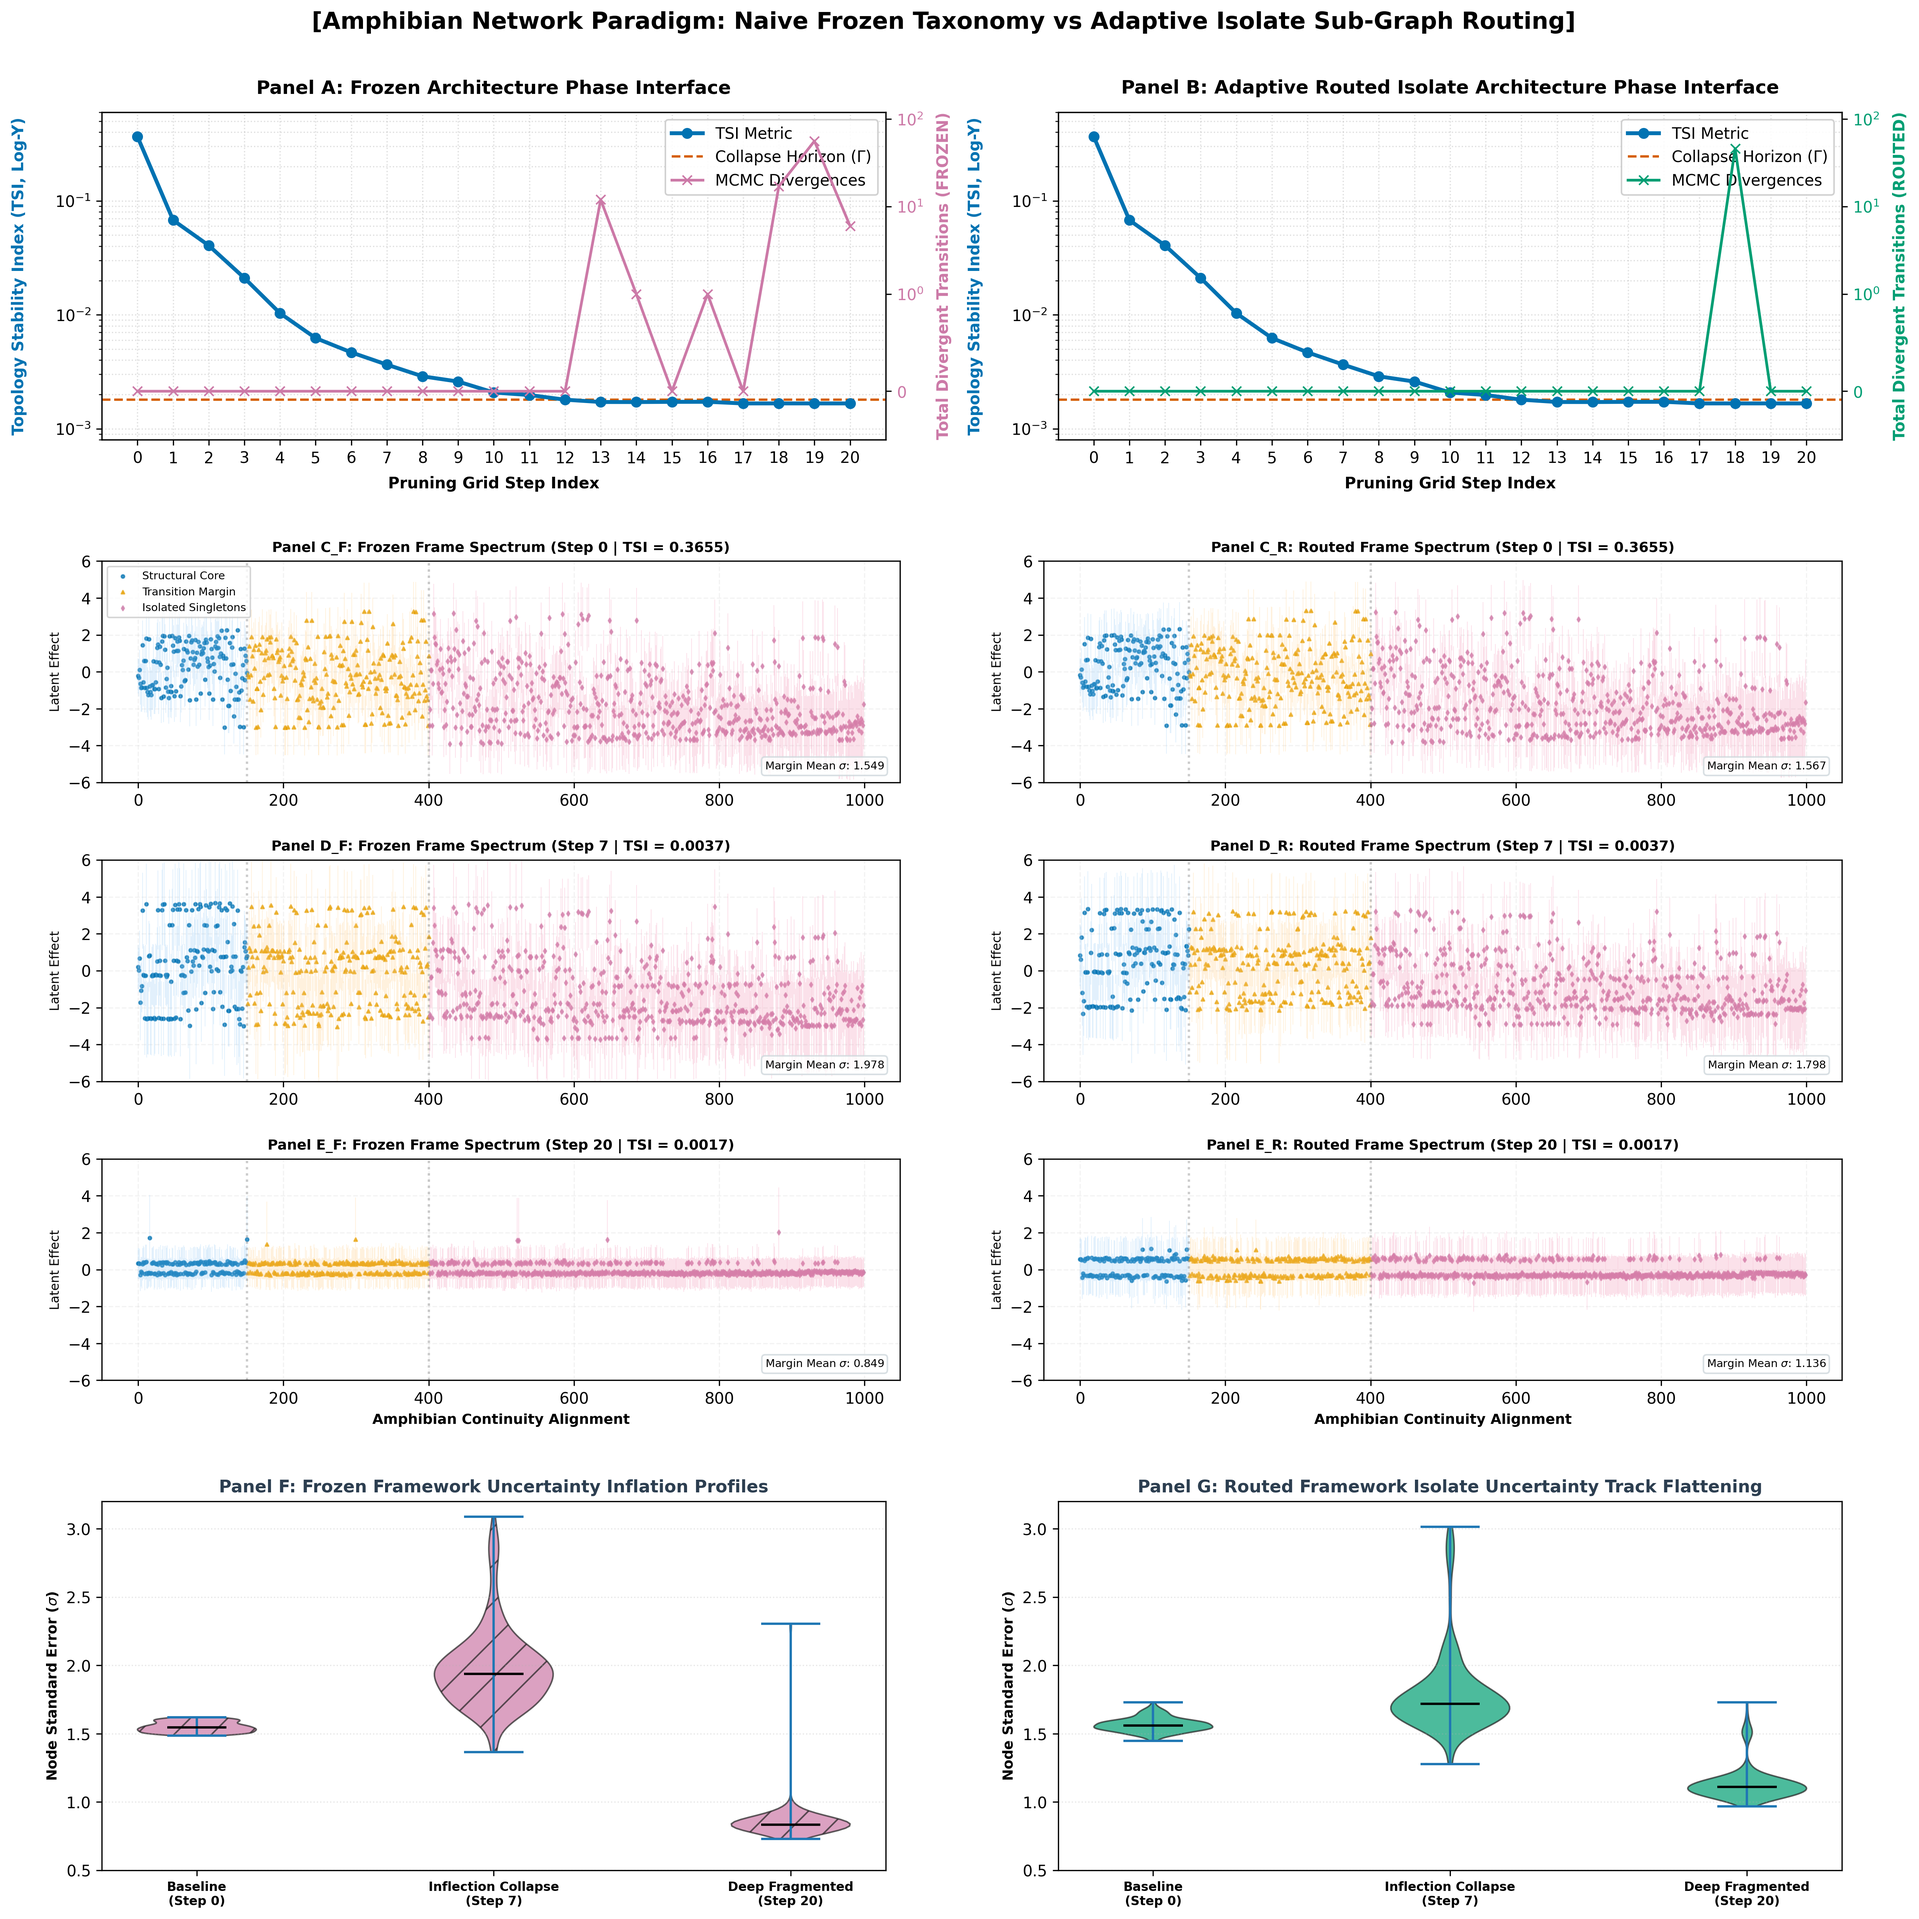
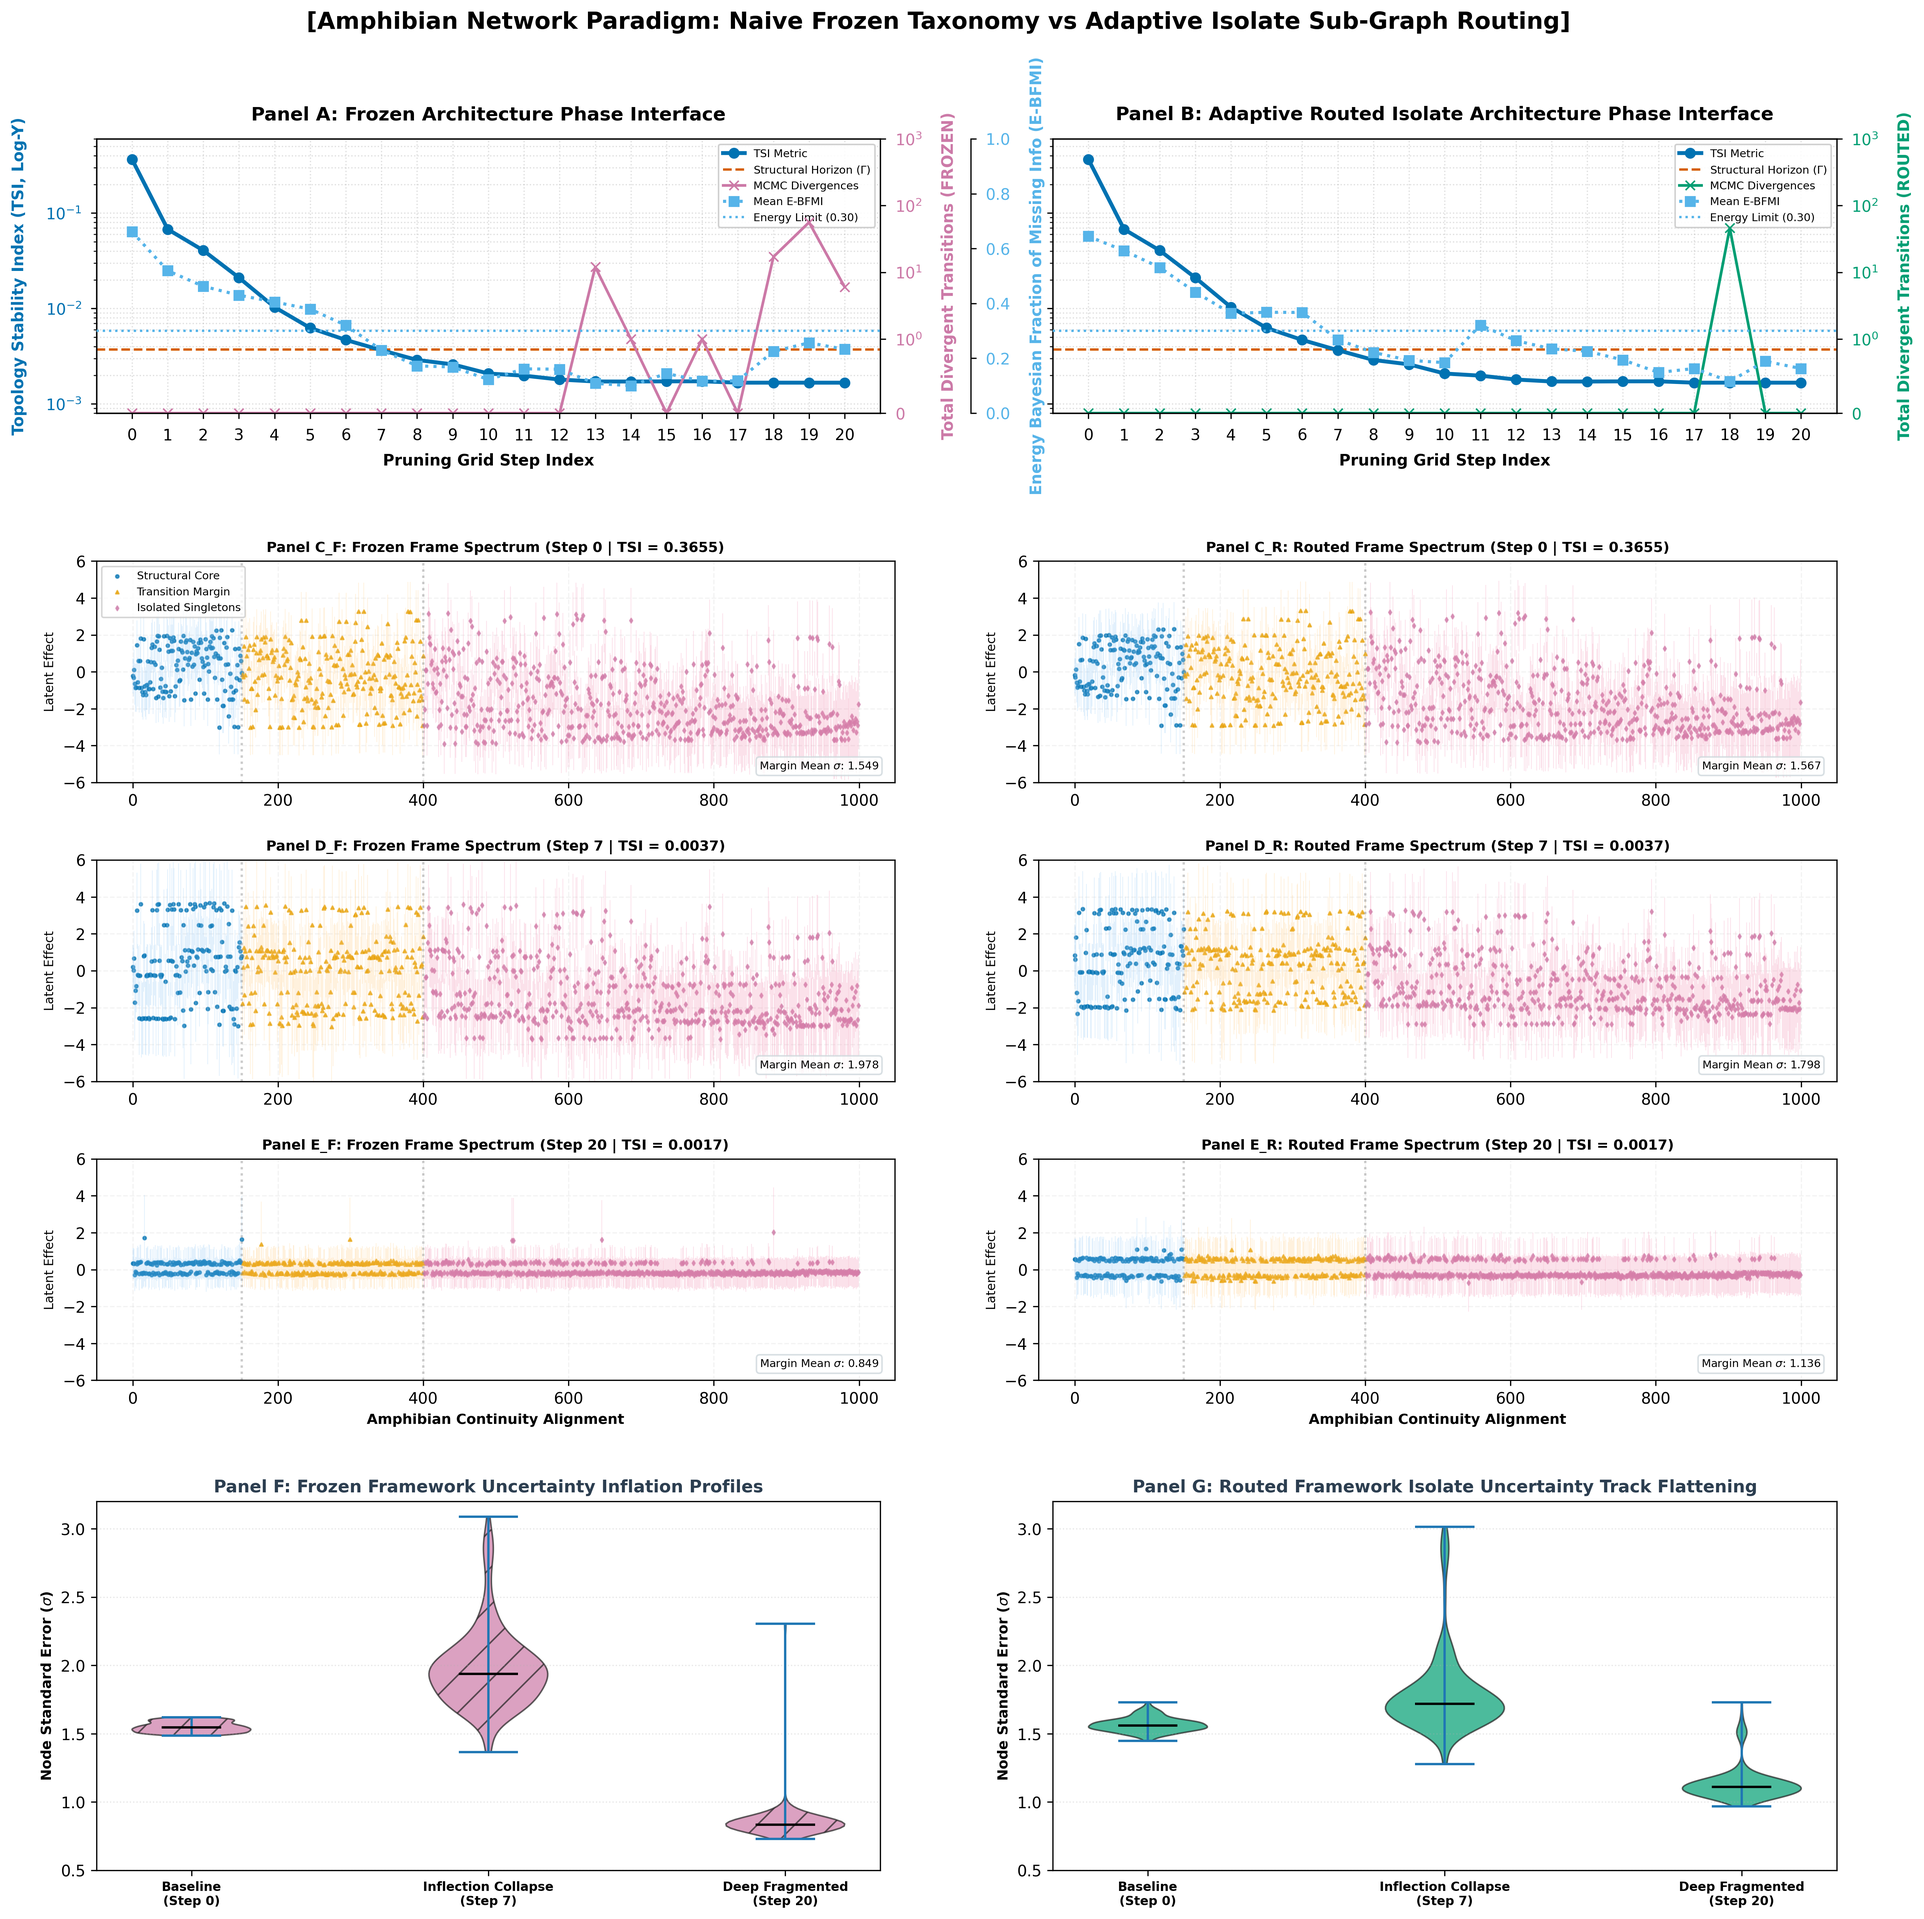
updated figure plot

diff --git a/amphibian_topology/utils/plot_synthesis.py b/amphibian_topology/utils/plot_synthesis.py
@@ -86,30 +86,68 @@ def render_publication_figure1():
     ax_macro_f = fig.add_subplot(gs_row1[0, 0])
     ax_macro_r = fig.add_subplot(gs_row1[0, 1])
 
-    def plot_macro_tier(ax, data, div_color, title_text, label_suffix):
-        ax.set_ylabel("Topology Stability Index (TSI, Log-Y)", color=c_tsi, fontweight="bold", labelpad=18)
+    c_bfmi = '#56B4E9'
+
+    def plot_macro_tier(ax, data, div_color, title_text, label_suffix, is_left_panel=True):
+        # 1. Left Primary Axis: Topology Stability Index (TSI)
+        if is_left_panel:
+            ax.set_ylabel("Topology Stability Index (TSI, Log-Y)", color=c_tsi, fontweight="bold", labelpad=12)
+            ax.tick_params(axis='y', labelcolor=c_tsi, pad=6)
+        else:
+            ax.set_ylabel("", color=c_tsi)
+            ax.tick_params(axis='y', labelleft=False, labelcolor='none')
+
         l_tsi, = ax.plot(data["Step"], data["Topology_Stability_Index"], marker='o', color=c_tsi, linewidth=2.5, label="TSI Metric", zorder=5)
         ax.set_yscale('log')
         ax.set_ylim(0.0008, 0.60)
         ax.grid(True, linestyle=":", alpha=0.4, which="both")
-        l_horiz = ax.axhline(y=0.0018, color=c_horizon, linestyle='--', linewidth=1.5, label="Collapse Horizon (Γ)", zorder=4)
 
+        # align structural horizon
+        l_horiz = ax.axhline(y=0.0037, color=c_horizon, linestyle='--', linewidth=1.5, label="Structural Horizon ($\Gamma$)", zorder=4)
+
+        # 2. Right Axis 1: Total Divergent Transitions
         ax_div = ax.twinx()
-        ax_div.set_ylabel(f"Total Divergent Transitions ({label_suffix})", color=div_color, fontweight="bold", labelpad=8)
+        ax_div.set_ylabel(f"Total Divergent Transitions ({label_suffix})", color=div_color, fontweight="bold", labelpad=12)
         l_div, = ax_div.plot(data["Step"], data["Divergences"], marker='x', linestyle='-', color=div_color, linewidth=1.75, label="MCMC Divergences", zorder=6)
         ax_div.set_yscale('symlog', linthresh=1.0)
-        ax_div.set_ylim(-0.5, max(120, data["Divergences"].max() * 1.15))
-        ax_div.tick_params(axis='y', labelcolor=div_color)
+        ax_div.set_ylim(0, 1000.0)
+        ax_div.spines['right'].set_bounds(0, 1000.0)
+        ax_div.tick_params(axis='y', labelcolor=div_color, pad=6)
 
+        # 3. Right Axis 2: Mean E-BFMI
+        ax_bfmi = ax.twinx()
+        l_bfmi, = ax_bfmi.plot(data["Step"], data["Mean_E_BFMI"], marker='s', linestyle=':', color=c_bfmi, linewidth=2.0, label="Mean E-BFMI", zorder=7)
+        ax_bfmi.set_ylim(0.0, 1.0)
+
+        # An E-BFMI below 0.30 is the standard indicator of poor sample mixing
+        l_energy_floor = ax_bfmi.axhline(y=0.30, color=c_bfmi, linestyle=':', linewidth=1.5, label="Energy Limit (0.30)", zorder=3)
+
+        if is_left_panel:
+            ax_bfmi.spines['right'].set_position(('outward', 58))
+            ax_bfmi.set_ylabel("Energy Bayesian Fraction of Missing Info (E-BFMI)", color=c_bfmi, fontweight="bold", labelpad=12)
+            ax_bfmi.tick_params(axis='y', labelcolor=c_bfmi, pad=6)
+        else:
+            ax_bfmi.set_ylabel("", color=c_bfmi)
+            ax_bfmi.spines['right'].set_visible(False)
+            ax_bfmi.tick_params(axis='y', which='both', left=False, right=False, labelright=False)
+
+        # Formatting constraints
+        ax.tick_params(axis='x', which='major', pad=6)
         ax.set_xticks(data["Step"])
         ax.set_xlabel("Pruning Grid Step Index", fontweight="bold", labelpad=6)
         ax.set_title(title_text, fontweight="bold", fontsize=12, pad=12)
 
-        handles = [l_tsi, l_horiz, l_div]
-        ax.legend(handles, [h.get_label() for h in handles], loc="upper right", frameon=True, framealpha=0.9)
+        # Update the legend to include the new independent energy floor line
+        handles = [l_tsi, l_horiz, l_div, l_bfmi, l_energy_floor]
+        ax.legend(handles, [h.get_label() for h in handles], loc="upper right", frameon=True, framealpha=0.9, fontsize=7)
 
-    plot_macro_tier(ax_macro_f, df_macro_f, c_f_div, "Panel A: Frozen Architecture Phase Interface", "FROZEN")
-    plot_macro_tier(ax_macro_r, df_macro_r, c_r_div, "Panel B: Adaptive Routed Isolate Architecture Phase Interface", "ROUTED")
+        ax.set_box_aspect(0.35)
+        ax_div.set_box_aspect(0.35)
+        ax_bfmi.set_box_aspect(0.35)
+
+    # Call functions explicitly passing structural layout indicators
+    plot_macro_tier(ax_macro_f, df_macro_f, c_f_div, "Panel A: Frozen Architecture Phase Interface", "FROZEN", is_left_panel=True)
+    plot_macro_tier(ax_macro_r, df_macro_r, c_r_div, "Panel B: Adaptive Routed Isolate Architecture Phase Interface", "ROUTED", is_left_panel=False)
 
     # Row 2: Node parameter spectrum grids
     gs_row2 = gridspec.GridSpecFromSubplotSpec(3, 2, subplot_spec=gs_master[1], hspace=0.35, wspace=0.18)
@@ -209,7 +247,7 @@ def render_publication_figure1():
 
     plt.savefig(final_output_png, bbox_inches="tight", dpi=300)
     plt.close()
-    print(f"🚀 Success! Consolidated universal publication Figure 1 graphic compiled cleanly at: {final_output_png}")
+    print(f"Consolidated universal publication Figure 1 graphic compiled at: {final_output_png}")
 
 if __name__ == "__main__":
     render_publication_figure1()
